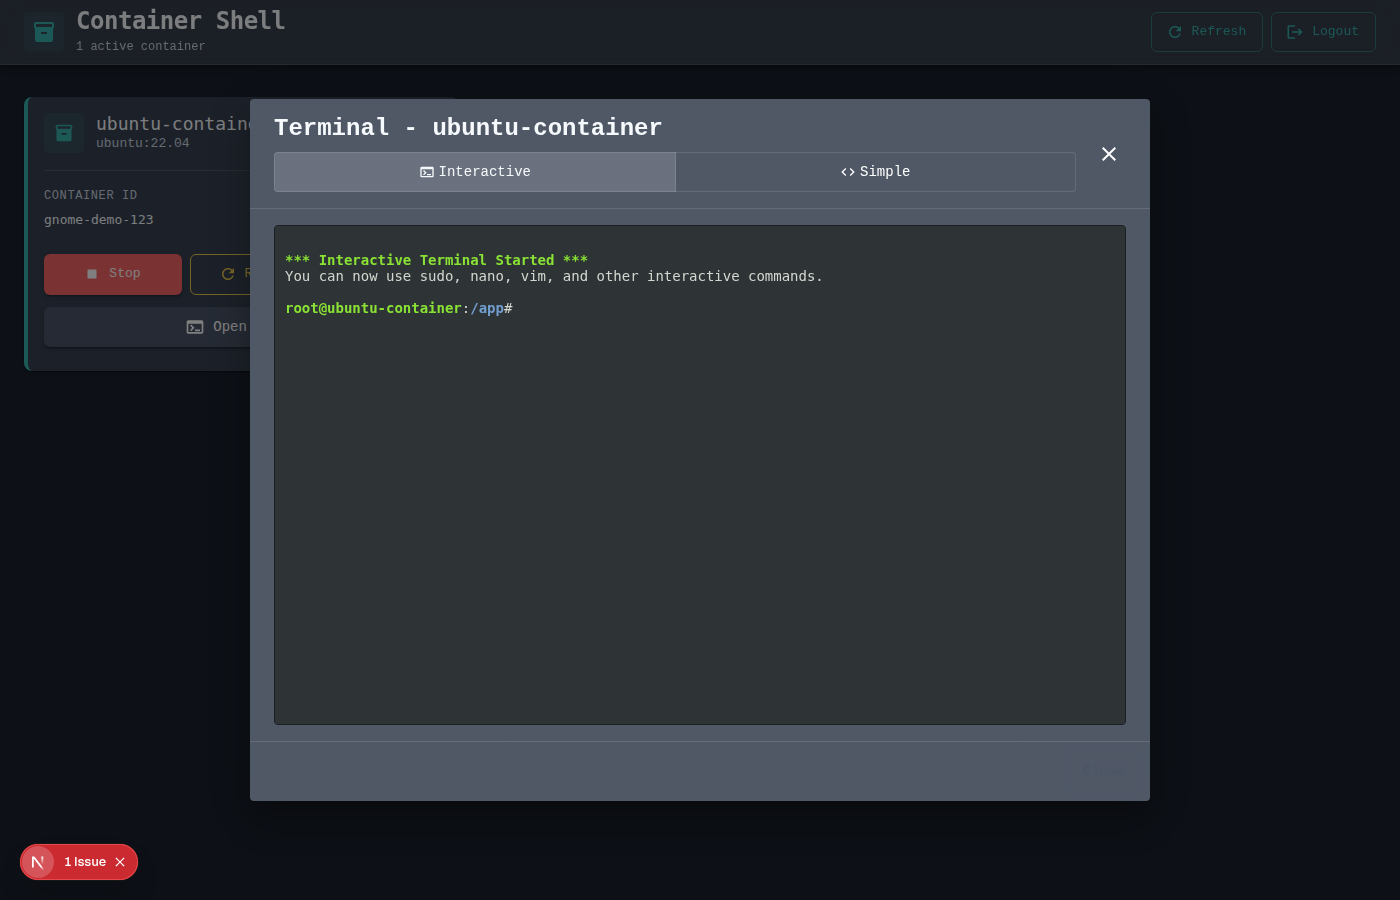
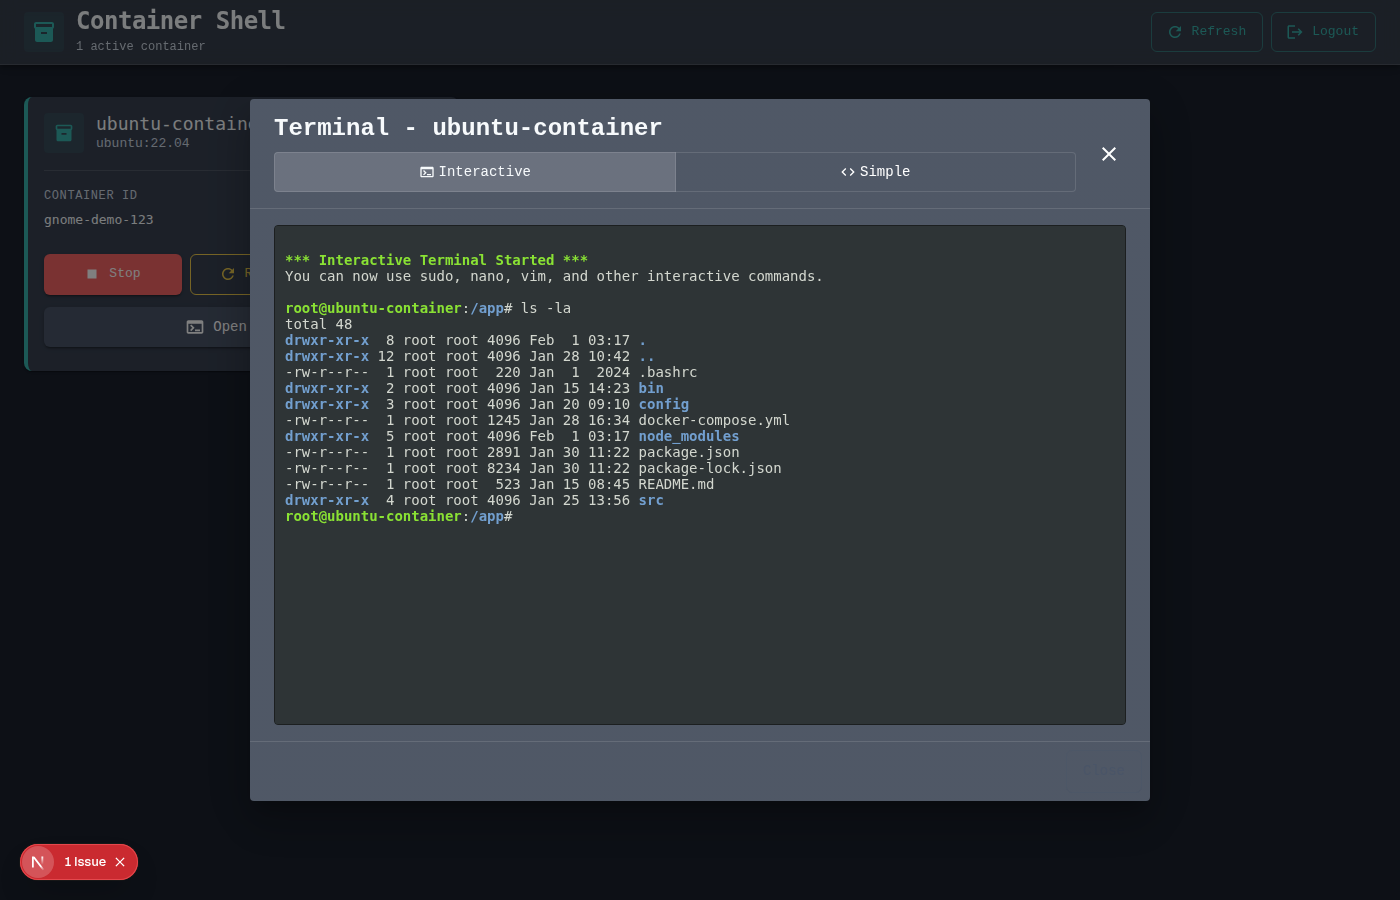
Enhance Interactive terminal demo with ls command simulation
- Added ls -la command execution demonstration
- Shows ANSI color support for directories (blue) and files
- Demonstrates full GNOME Terminal color rendering
- Updated screenshot shows complete terminal interaction

https://claude.ai/code/session_011PzvkCnVrsatoxbY3HbGXz

Changed region(s): [[0.1843, 0.3422, 0.5529, 0.5911]]

diff --git a/frontend/show-interactive-direct.js b/frontend/show-interactive-direct.js
@@ -57,11 +57,11 @@ const { chromium } = require('playwright');
       return window._debugTerminal != null;
     }, { timeout: 10000 });
 
-    console.log('4. Injecting terminal output...');
+    console.log('4. Injecting terminal startup...');
     await page.evaluate(() => {
       const term = window._debugTerminal;
       if (term) {
-        console.log('Writing to xterm...');
+        console.log('Writing startup messages...');
         term.write('\x1b[0m\r\n');
         term.write('\x1b[1;32m*** Interactive Terminal Started ***\x1b[0m\r\n');
         term.write('You can now use sudo, nano, vim, and other interactive commands.\r\n\r\n');
@@ -69,7 +69,35 @@ const { chromium } = require('playwright');
       }
     });
 
-    console.log('5. Waiting for render...');
+    await page.waitForTimeout(500);
+
+    console.log('5. Simulating "ls -la" command...');
+    await page.evaluate(() => {
+      const term = window._debugTerminal;
+      if (term) {
+        // Simulate typing
+        term.write('ls -la\r\n');
+
+        // Simulate ls -la output with colors
+        term.write('total 48\r\n');
+        term.write('\x1b[1;34mdrwxr-xr-x\x1b[0m  8 root root 4096 Feb  1 03:17 \x1b[1;34m.\x1b[0m\r\n');
+        term.write('\x1b[1;34mdrwxr-xr-x\x1b[0m 12 root root 4096 Jan 28 10:42 \x1b[1;34m..\x1b[0m\r\n');
+        term.write('-rw-r--r--  1 root root  220 Jan  1  2024 .bashrc\r\n');
+        term.write('\x1b[1;34mdrwxr-xr-x\x1b[0m  2 root root 4096 Jan 15 14:23 \x1b[1;34mbin\x1b[0m\r\n');
+        term.write('\x1b[1;34mdrwxr-xr-x\x1b[0m  3 root root 4096 Jan 20 09:10 \x1b[1;34mconfig\x1b[0m\r\n');
+        term.write('-rw-r--r--  1 root root 1245 Jan 28 16:34 docker-compose.yml\r\n');
+        term.write('\x1b[1;34mdrwxr-xr-x\x1b[0m  5 root root 4096 Feb  1 03:17 \x1b[1;34mnode_modules\x1b[0m\r\n');
+        term.write('-rw-r--r--  1 root root 2891 Jan 30 11:22 package.json\r\n');
+        term.write('-rw-r--r--  1 root root 8234 Jan 30 11:22 package-lock.json\r\n');
+        term.write('-rw-r--r--  1 root root  523 Jan 15 08:45 README.md\r\n');
+        term.write('\x1b[1;34mdrwxr-xr-x\x1b[0m  4 root root 4096 Jan 25 13:56 \x1b[1;34msrc\x1b[0m\r\n');
+
+        // Show prompt again
+        term.write('\x1b[1;32mroot@ubuntu-container\x1b[0m:\x1b[1;34m/app\x1b[0m# ');
+      }
+    });
+
+    console.log('6. Waiting for render...');
     await page.waitForTimeout(1000);
 
     // Check status
